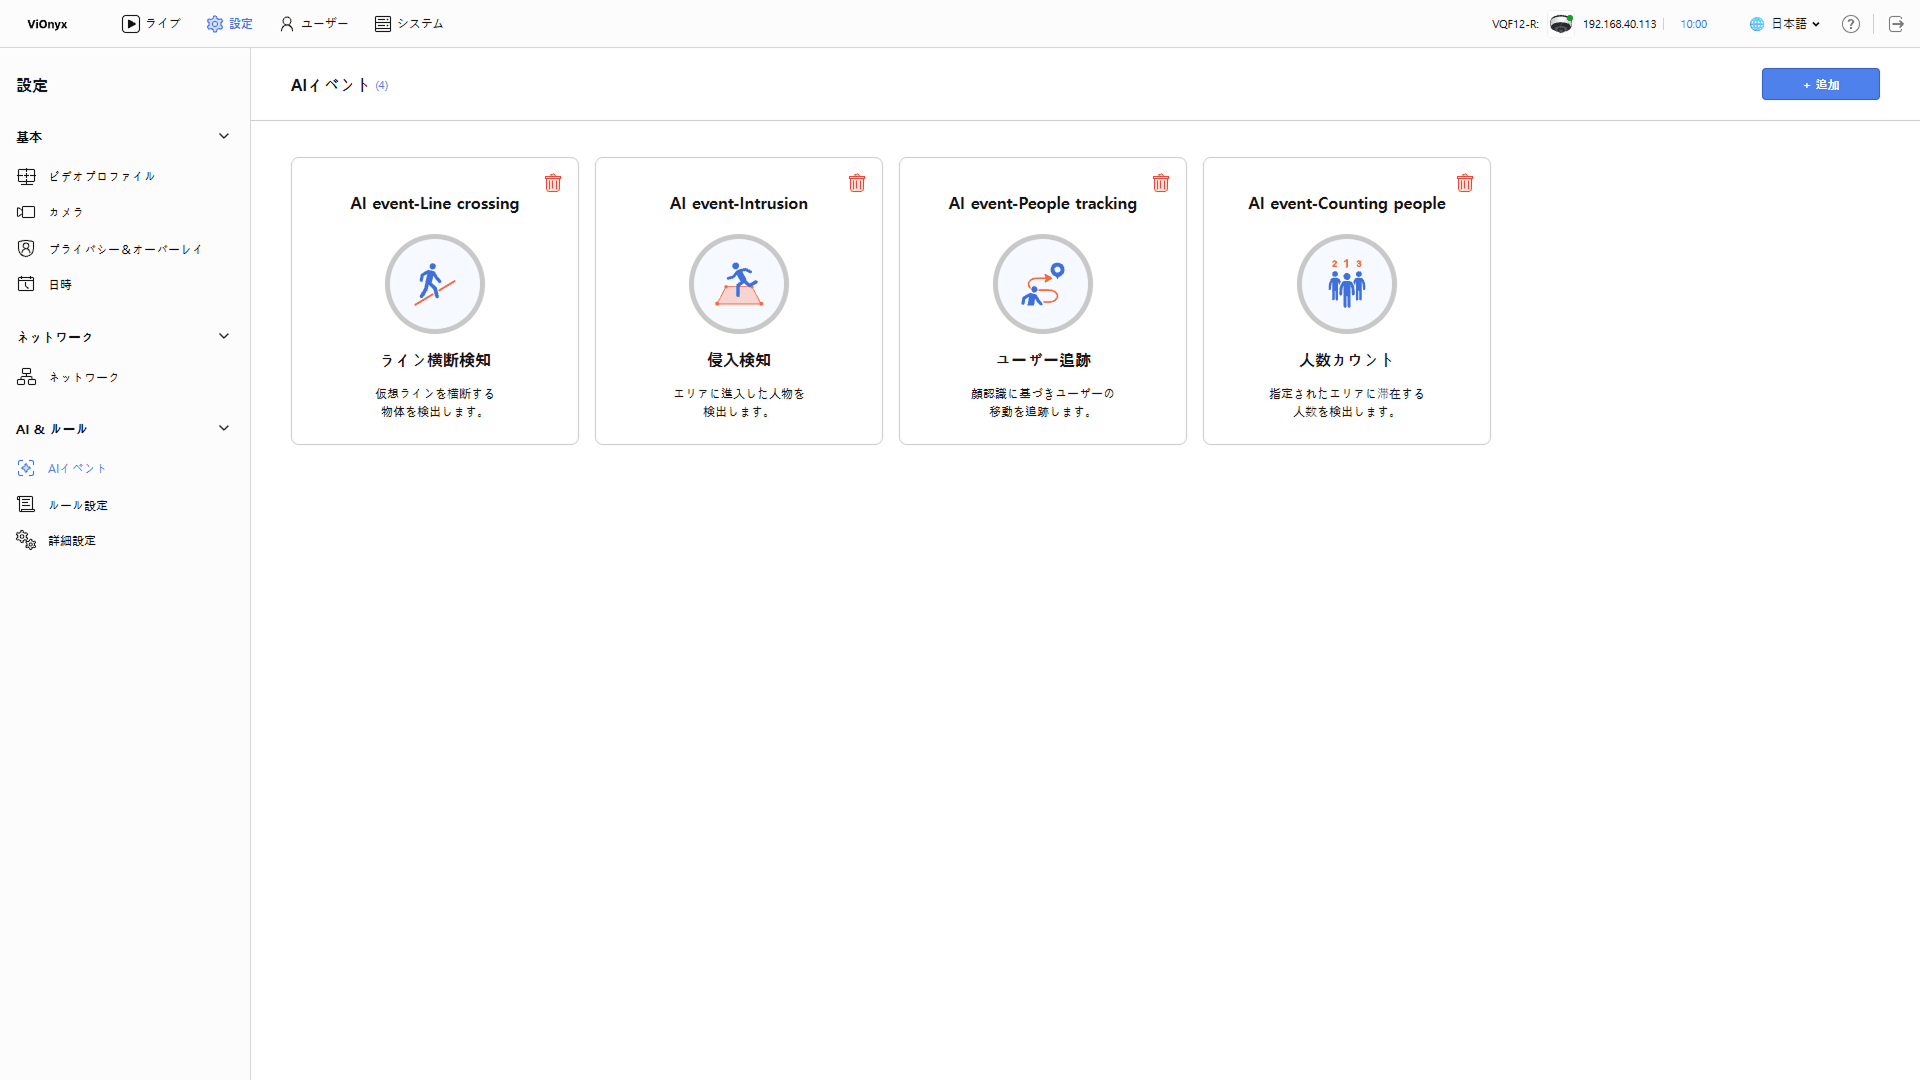
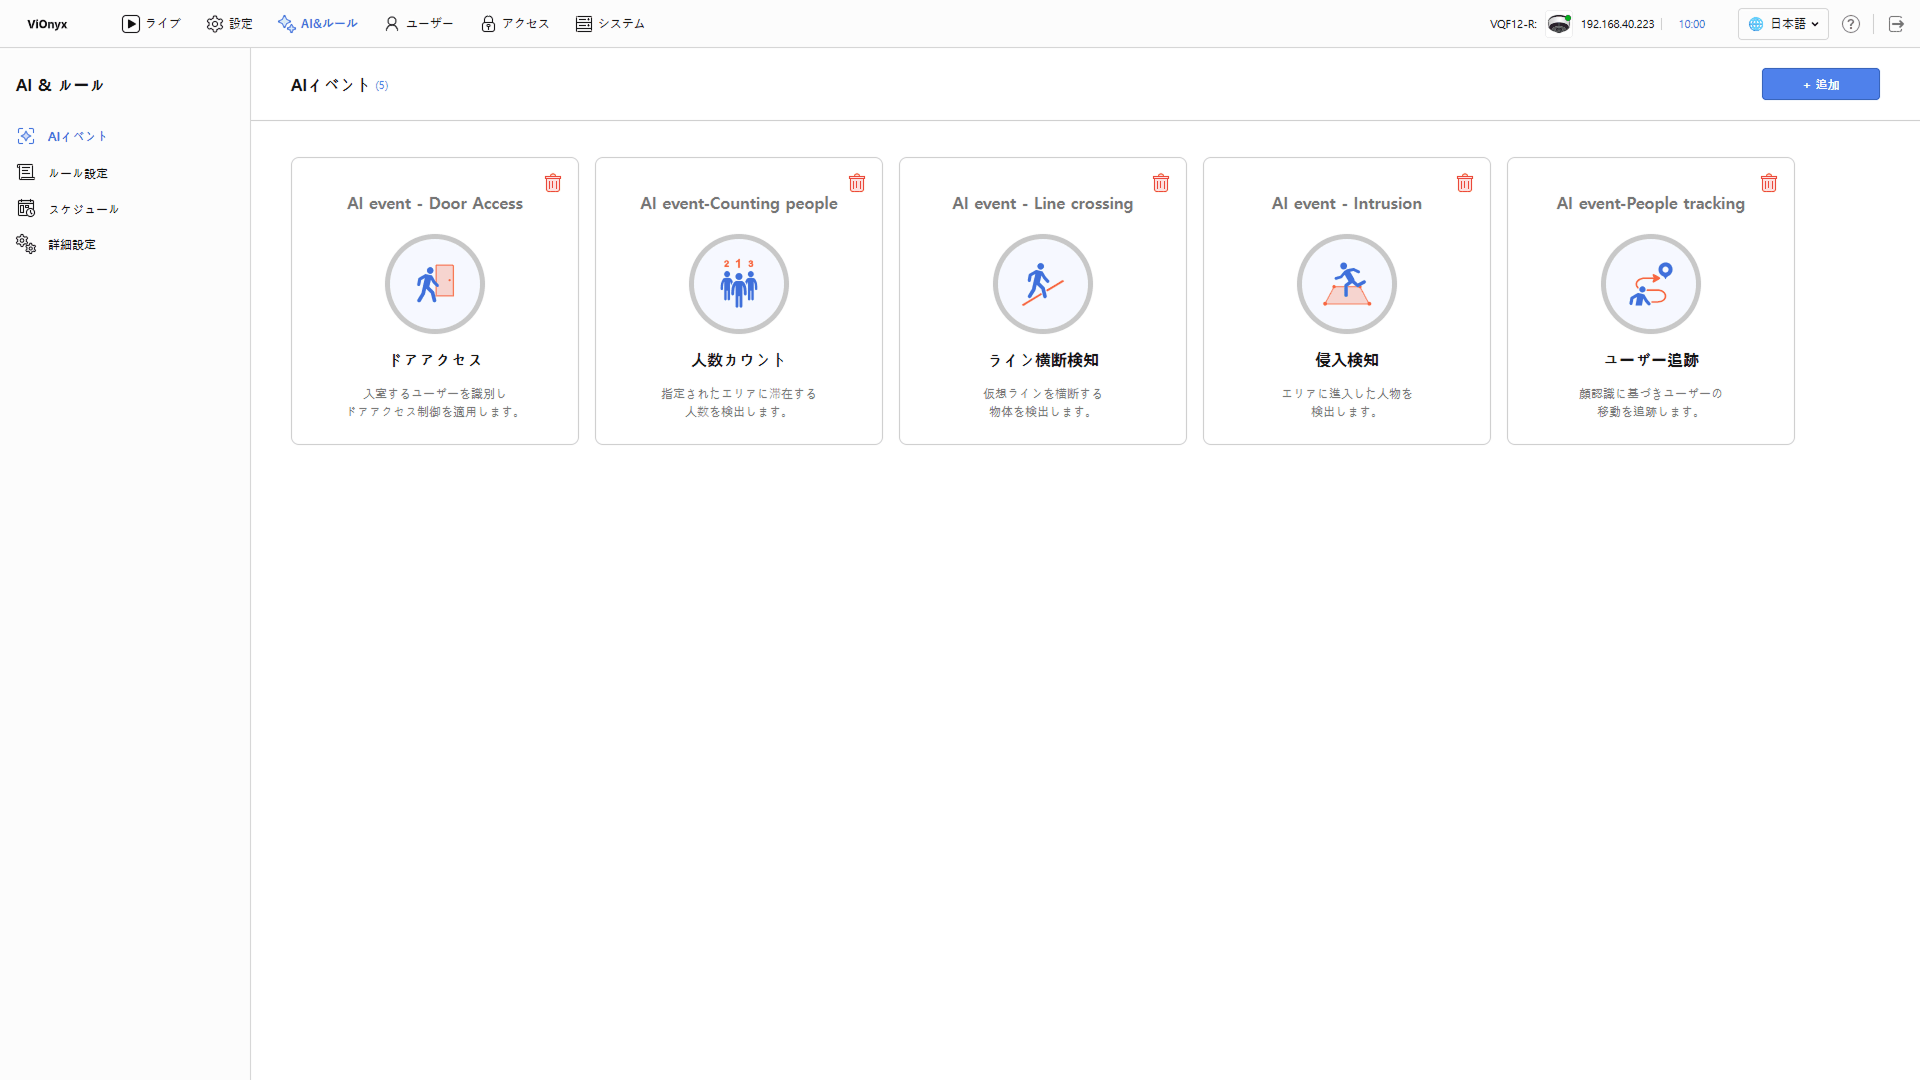
TW-650: 출입 통제 이벤트 문서 초안

diff --git a/sidebars.js b/sidebars.js
@@ -112,6 +112,7 @@ function createSidebars(preview) {
             'device/vionyx_webserver/configure-intrusion',
             'device/vionyx_webserver/configure-line-crossing',
             'device/vionyx_webserver/configure-counting-people',
+            'device/vionyx_webserver/configure-access-control',
             'device/vionyx_webserver/edit-delete-ai-event',
             'device/vionyx_webserver/set-ai-rule',
             'device/vionyx_webserver/set-ai-advanced'
